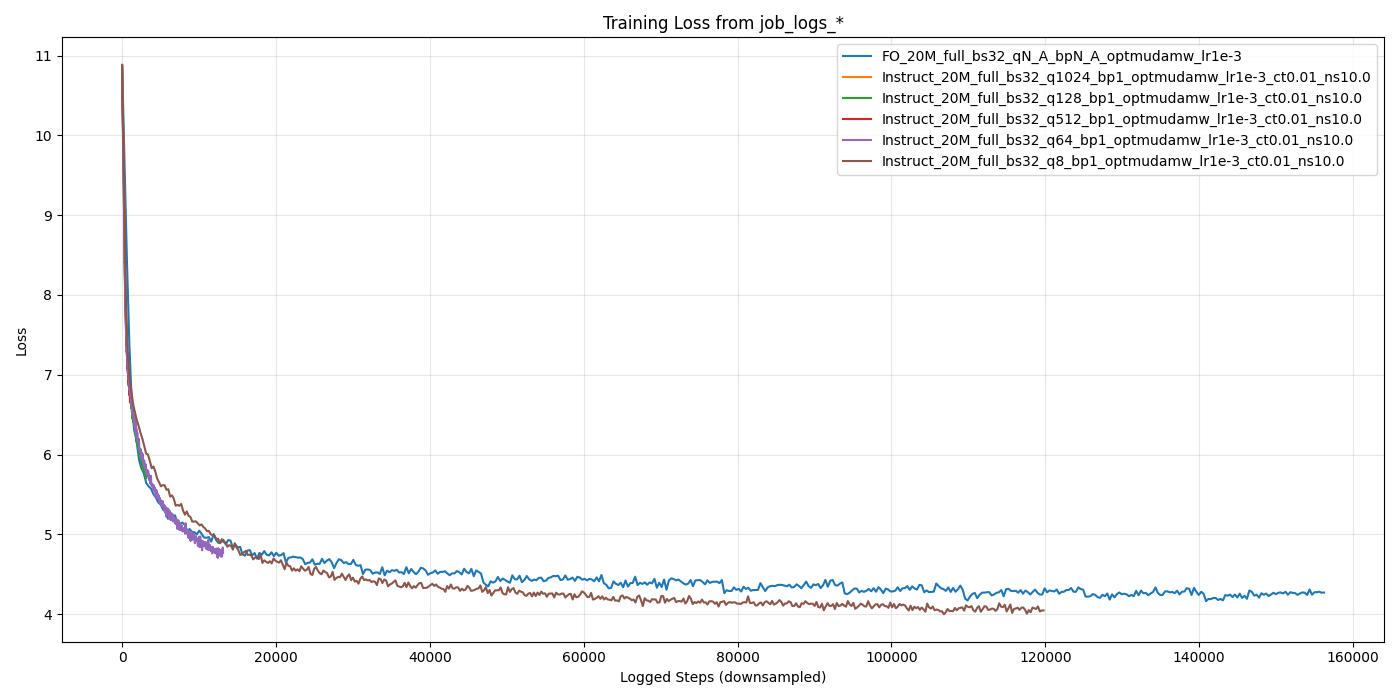
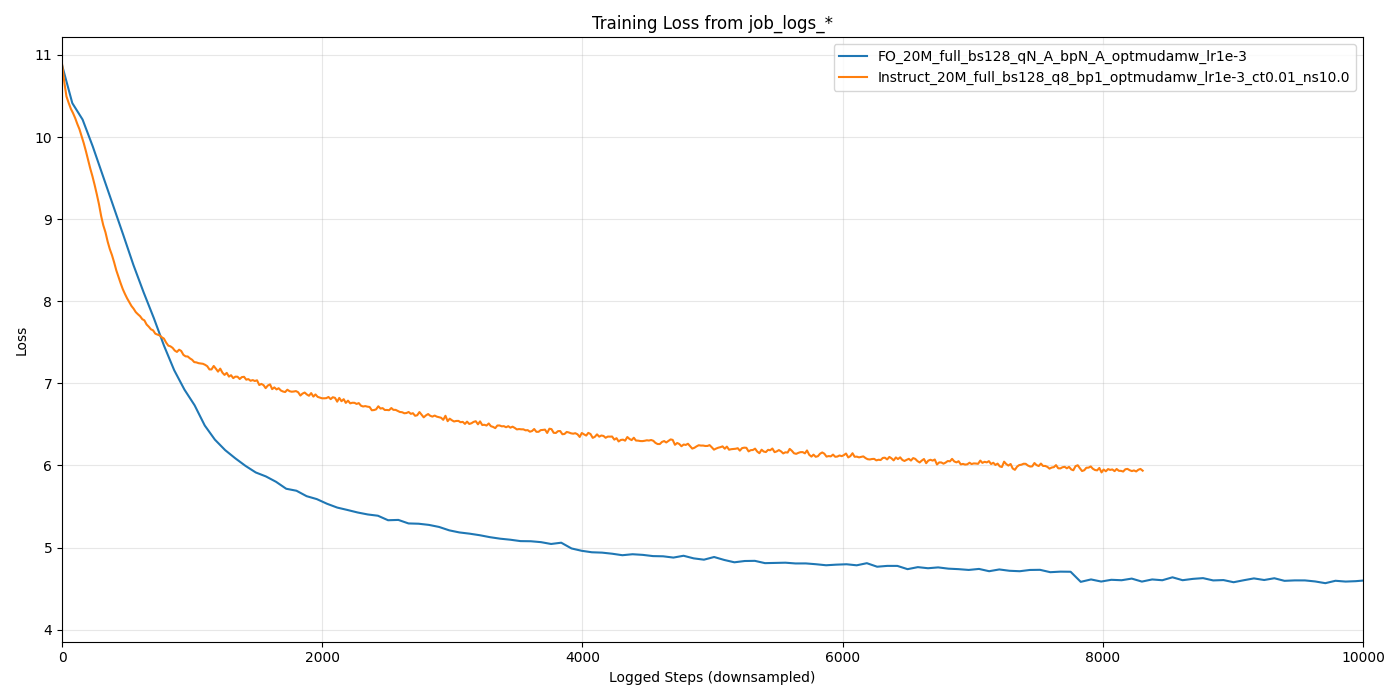
add varying seq len

diff --git a/reproduce_zo_paper.py b/reproduce_zo_paper.py
@@ -966,6 +966,7 @@ def train(
     model_size='200M',
     dataset_name='cosmopedia-100k',
     max_samples=None,
+    block_size=128,
     checkpoint_dir=None,
     logger=None,
     run_name=None,
@@ -984,10 +985,19 @@ def train(
         tokenizer.add_special_tokens({'pad_token': '[PAD]'})
     
     model = create_model(model_size=model_size, vocab_size=len(tokenizer)).to(device)
+    
+    # 检查block_size是否超过模型的最大位置编码
+    max_positions = model.config.n_positions
+    if block_size > max_positions:
+        print(f"⚠  Warning: block_size ({block_size}) exceeds model's max positions ({max_positions})")
+        print(f"   Automatically adjusting block_size to {max_positions}")
+        block_size = max_positions
+    
     dataloader = get_dataloader(
         tokenizer=tokenizer,
         dataset_name=dataset_name,
         batch_size=batch_size,
+        block_size=block_size,
         max_samples=max_samples,
     )
     
@@ -995,10 +1005,12 @@ def train(
     bp_dataloader = None
     if bp_dataset_name is not None and bp_dataset_name != dataset_name:
         print(f"Creating separate BP dataloader with dataset: {bp_dataset_name}")
+        # BP dataloader也使用调整后的block_size
         bp_dataloader = get_dataloader(
             tokenizer=tokenizer,
             dataset_name=bp_dataset_name,
             batch_size=batch_size,
+            block_size=block_size,
             max_samples=bp_max_samples,
         )
         if logger:
@@ -1013,7 +1025,7 @@ def train(
 
     if logger:
         logger.info(
-            "Starting training run '%s' with configuration: mode=%s scope=%s q=%s lr=%s epochs=%s batch_size=%s optimizer=%s bp_interval=%s blend_bp_gradient=%s instruct_cosine_target=%s instruct_noise_scale=%s device=%s dataset=%s model_size=%s max_samples=%s bp_dataset=%s bp_max_samples=%s",
+            "Starting training run '%s' with configuration: mode=%s scope=%s q=%s lr=%s epochs=%s batch_size=%s block_size=%s optimizer=%s bp_interval=%s blend_bp_gradient=%s instruct_cosine_target=%s instruct_noise_scale=%s device=%s dataset=%s model_size=%s max_samples=%s bp_dataset=%s bp_max_samples=%s",
             run_name or "unnamed",
             mode,
             scope,
@@ -1021,6 +1033,7 @@ def train(
             lr,
             epochs,
             batch_size,
+            block_size,
             optimizer_type,
             bp_interval,
             blend_bp_gradient,
@@ -1461,6 +1474,8 @@ if __name__ == "__main__":
                         help="Dataset name for training.")
     parser.add_argument("--max_samples", type=int, default=None,
                         help="Maximum number of samples to use from dataset. None=use recommended value.")
+    parser.add_argument("--block_size", type=int, default=128,
+                        help="Sequence length (block size) for tokenization (default: 128).")
     
     # BP数据集参数（用于Calibrate/Instruct模式）
     parser.add_argument("--bp_dataset", type=str, default=None,
@@ -1562,6 +1577,7 @@ if __name__ == "__main__":
         model_size=args.model_size,
         dataset_name=args.dataset,
         max_samples=args.max_samples,
+        block_size=args.block_size,
         checkpoint_dir=str(checkpoint_path) if checkpoint_path else None,
         logger=logger,
         run_name=run_name,

diff --git a/plot_log.py b/plot_log.py
@@ -123,7 +123,7 @@ def plot_series(
         else "Logged Step"
     )
     plt.ylabel("Loss")
-    # plt.xlim(0,10000)
+    plt.xlim(0,10000)
     plt.title(title or "Training Loss from job_logs_*")
     plt.legend(loc="best")
     plt.grid(True, alpha=0.3)
